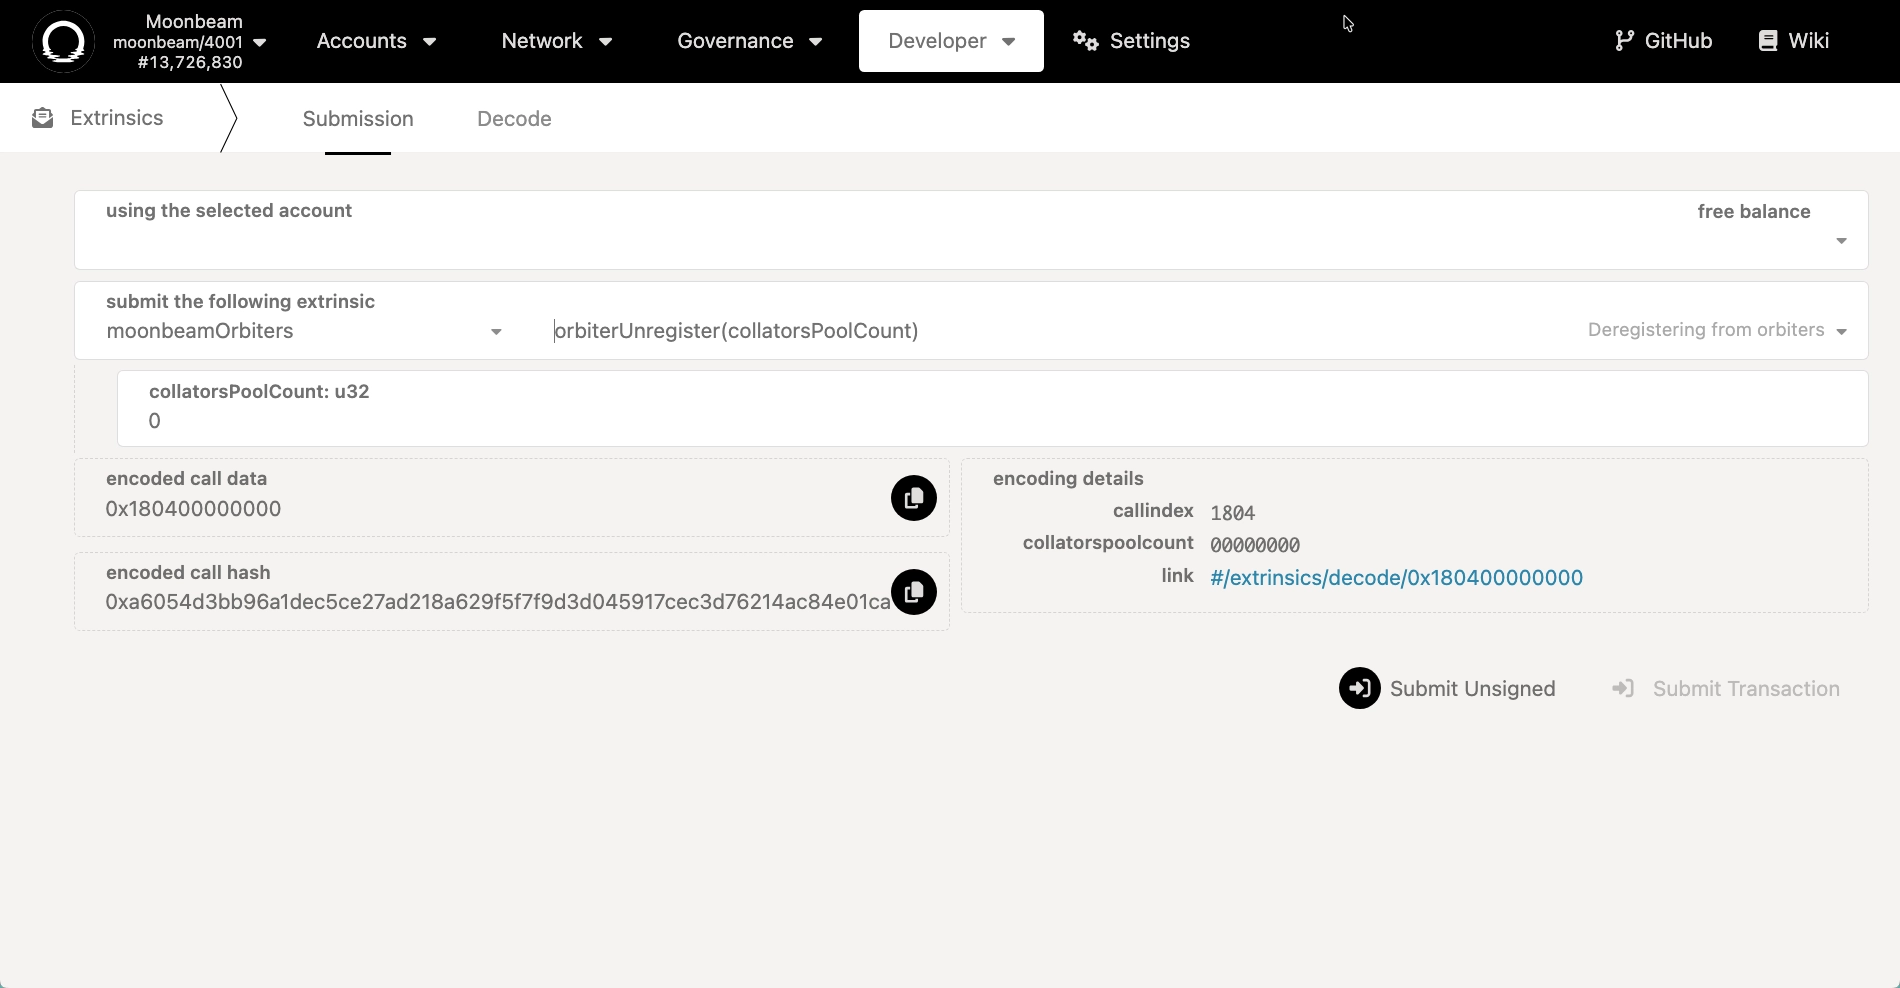
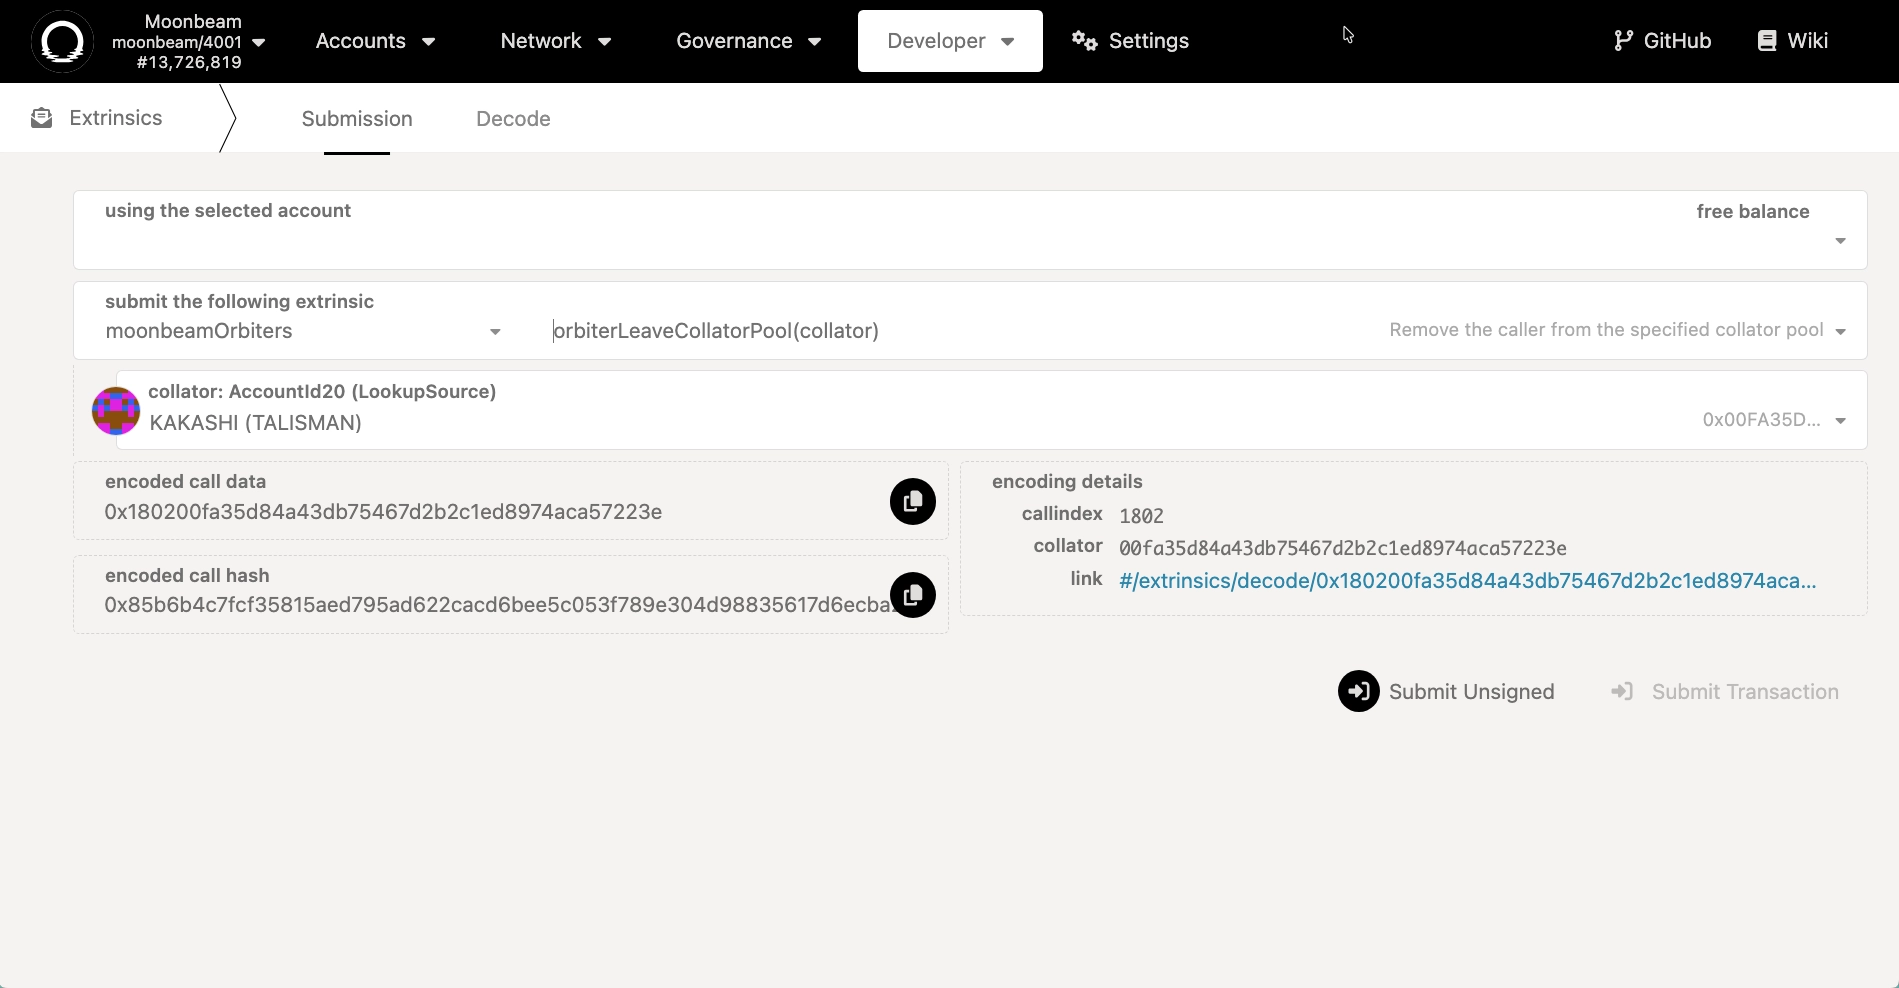
revisions

diff --git a/node-operators/networks/collators/orbiter.md b/node-operators/networks/collators/orbiter.md
@@ -182,11 +182,14 @@ Metrics will be assessed over seven day periods. The performance metrics are as 
 
 An orbiter may leave the program and receive their bond back without any delay. The only limitation is that if the orbiter is currently active, they cannot leave. Once they are no longer active (i.e. once their assigned active round ends and block production authority rotates to another orbiter), they can leave at any time by following these steps: 
 
-1. Execute the chain state call `moonbeamOrbiters.collatorsPool()` with no arguments, making sure to disable "include option" in [Polkadot.js](https://polkadot.js.org/apps/#/explorer){target=\_blank}. Make note of your collator pool address and the number of pools as you will need them in the following steps. 
+1. In [Polkadot.js Apps](https://polkadot.js.org/apps/#/chainstate){target=\_blank}, open the **Developer** tab, click **Chain state**, select `moonbeamOrbiters`, and submit `collatorsPool()` with no arguments, making sure to disable **include option**. Look for your orbiter's address beneath the collator pool address. Copy the collator pool address as you'll need it in a subsequent step. 
     ![`moonbeamOrbiters.collatorsPool()` Chain State Call in Polkadot.js](/images/node-operators/networks/collators/orbiter/orbiter-1.webp)
 
-2. Execute `moonbeamOrbiters.orbiterLeaveCollatorPool(collator)` extrinsic where the `collator` param is the address of the collator pool you are in.
-    ![`moonbeamOrbiters.orbiterLeaveCollatorPool(collator)` Extrinsic Call in Polkadot.js](/images/node-operators/networks/collators/orbiter/orbiter-2.webp)
+2. From the same [Polkadot.js Apps Chain State page](https://polkadot.js.org/apps/#/chainstate){target=\_blank}, select `moonbeamOrbiters`, and submit the `counterForCollatorsPool()` query. Make a note of that number as you'll need it in the final step.
+    ![`moonbeamOrbiters.counterForCollatorsPool()` Chain State Call in Polkadot.js](/images/node-operators/networks/collators/orbiter/orbiter-2.webp)
 
-3. Execute `moonbeamOrbiters.orbiterUnregister(collatorsPoolCount)` where `collatorsPoolCount` is the number of pools.
-    ![`moonbeamOrbiters.orbiterUnregister(collatorsPoolCount)` Extrinsic Call in Polkadot.js](/images/node-operators/networks/collators/orbiter/orbiter-3.webp)
+3. In [Polkadot.js Apps](https://polkadot.js.org/apps/#/extrinsics){target=\_blank}, open the **Developer** tab, click **Extrinsics**, and submit the `moonbeamOrbiters.orbiterLeaveCollatorPool(collator)` extrinsic using the collator pool address from step 1 for the `collator` parameter.
+    ![`moonbeamOrbiters.orbiterLeaveCollatorPool(collator)` Extrinsic Call in Polkadot.js](/images/node-operators/networks/collators/orbiter/orbiter-3.webp)
+
+4. Stay on the **Developer** tab with **Extrinsics** selected and submit `moonbeamOrbiters.orbiterUnregister(collatorsPoolCount)` with the pool count captured in step 2.
+    ![`moonbeamOrbiters.orbiterUnregister(collatorsPoolCount)` Extrinsic Call in Polkadot.js](/images/node-operators/networks/collators/orbiter/orbiter-4.webp)
